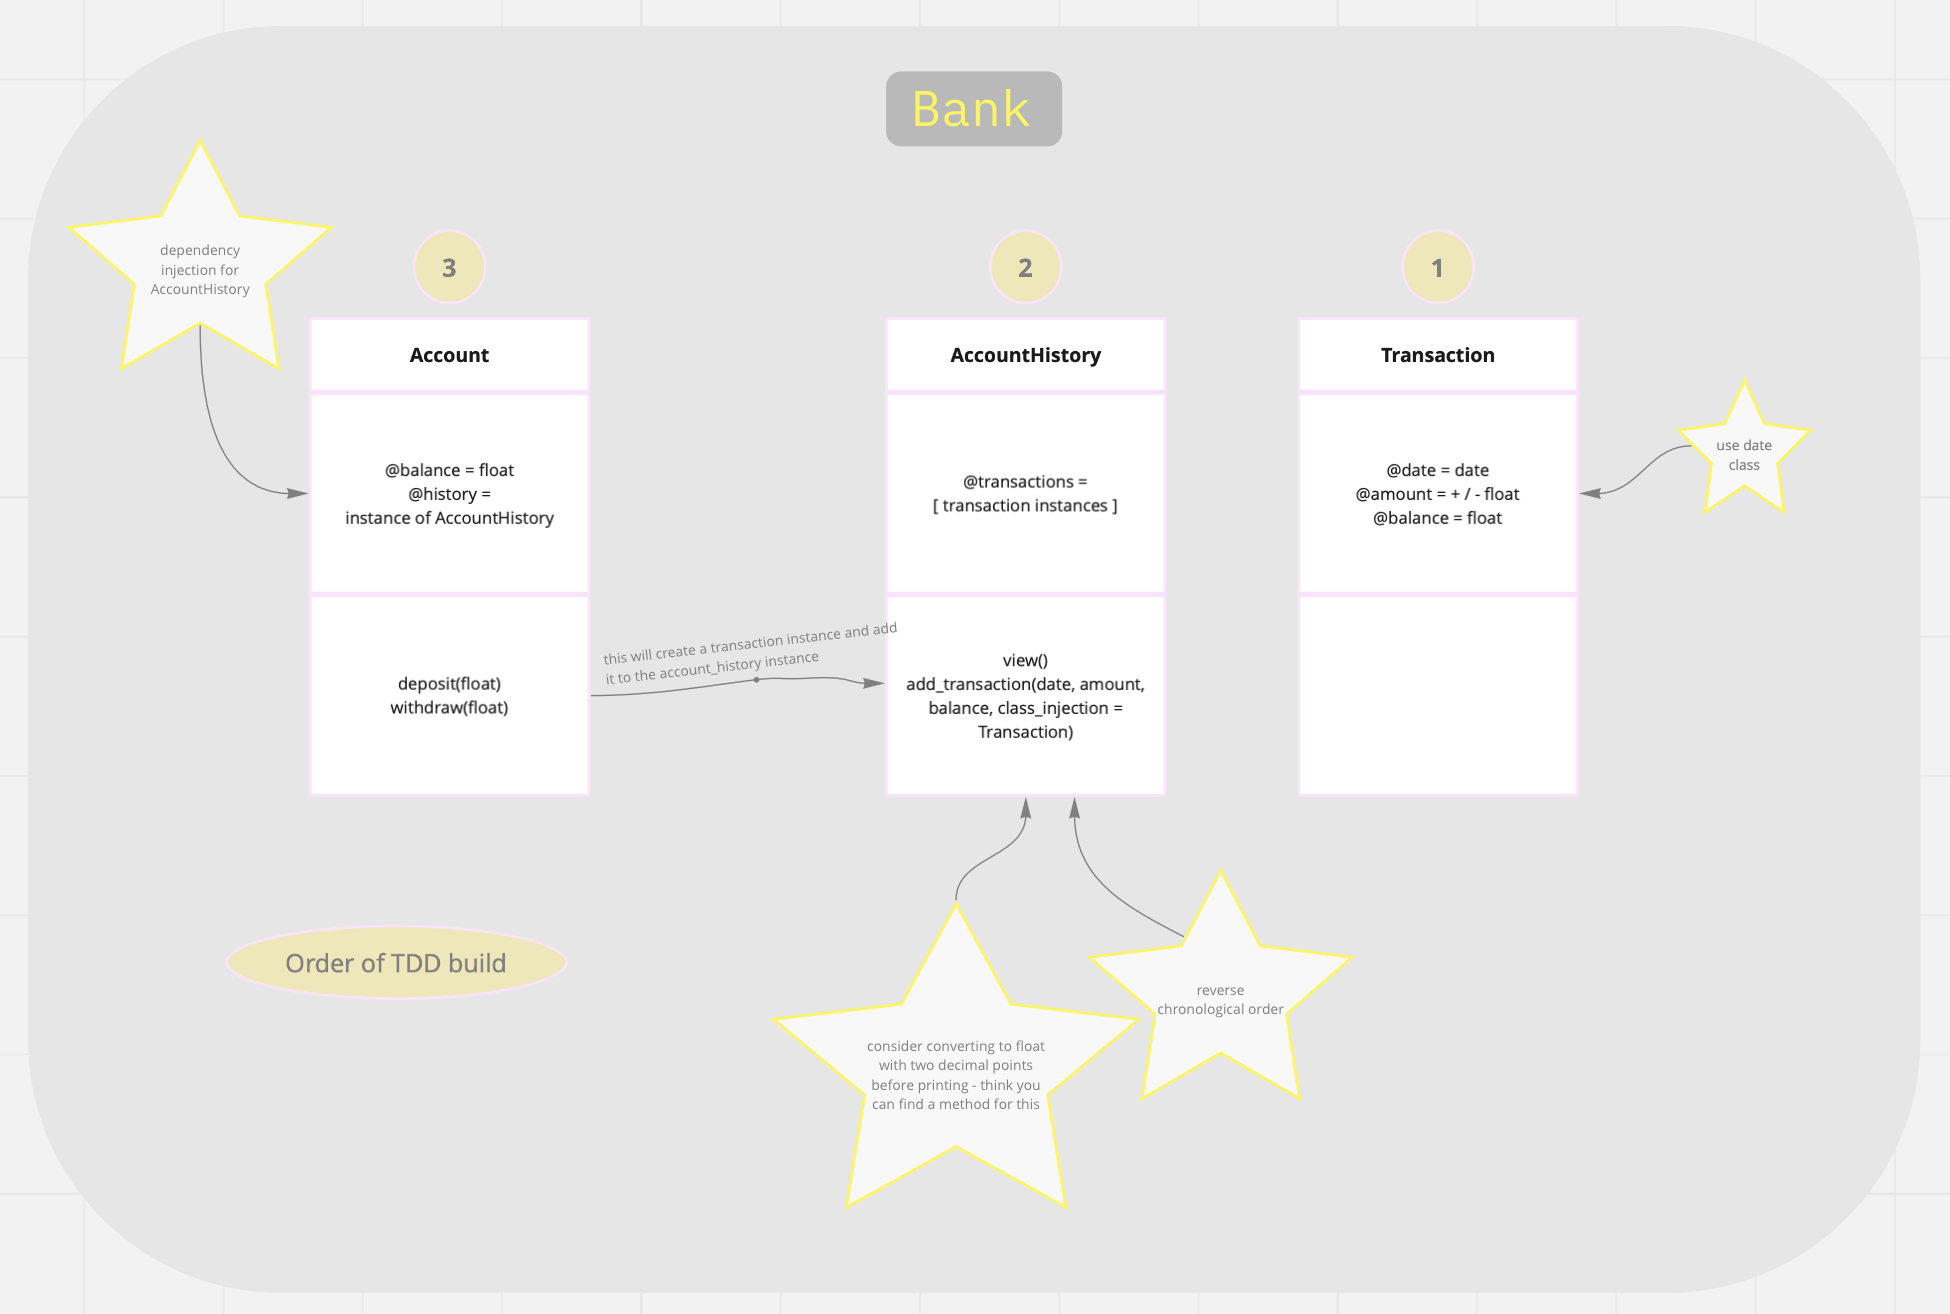
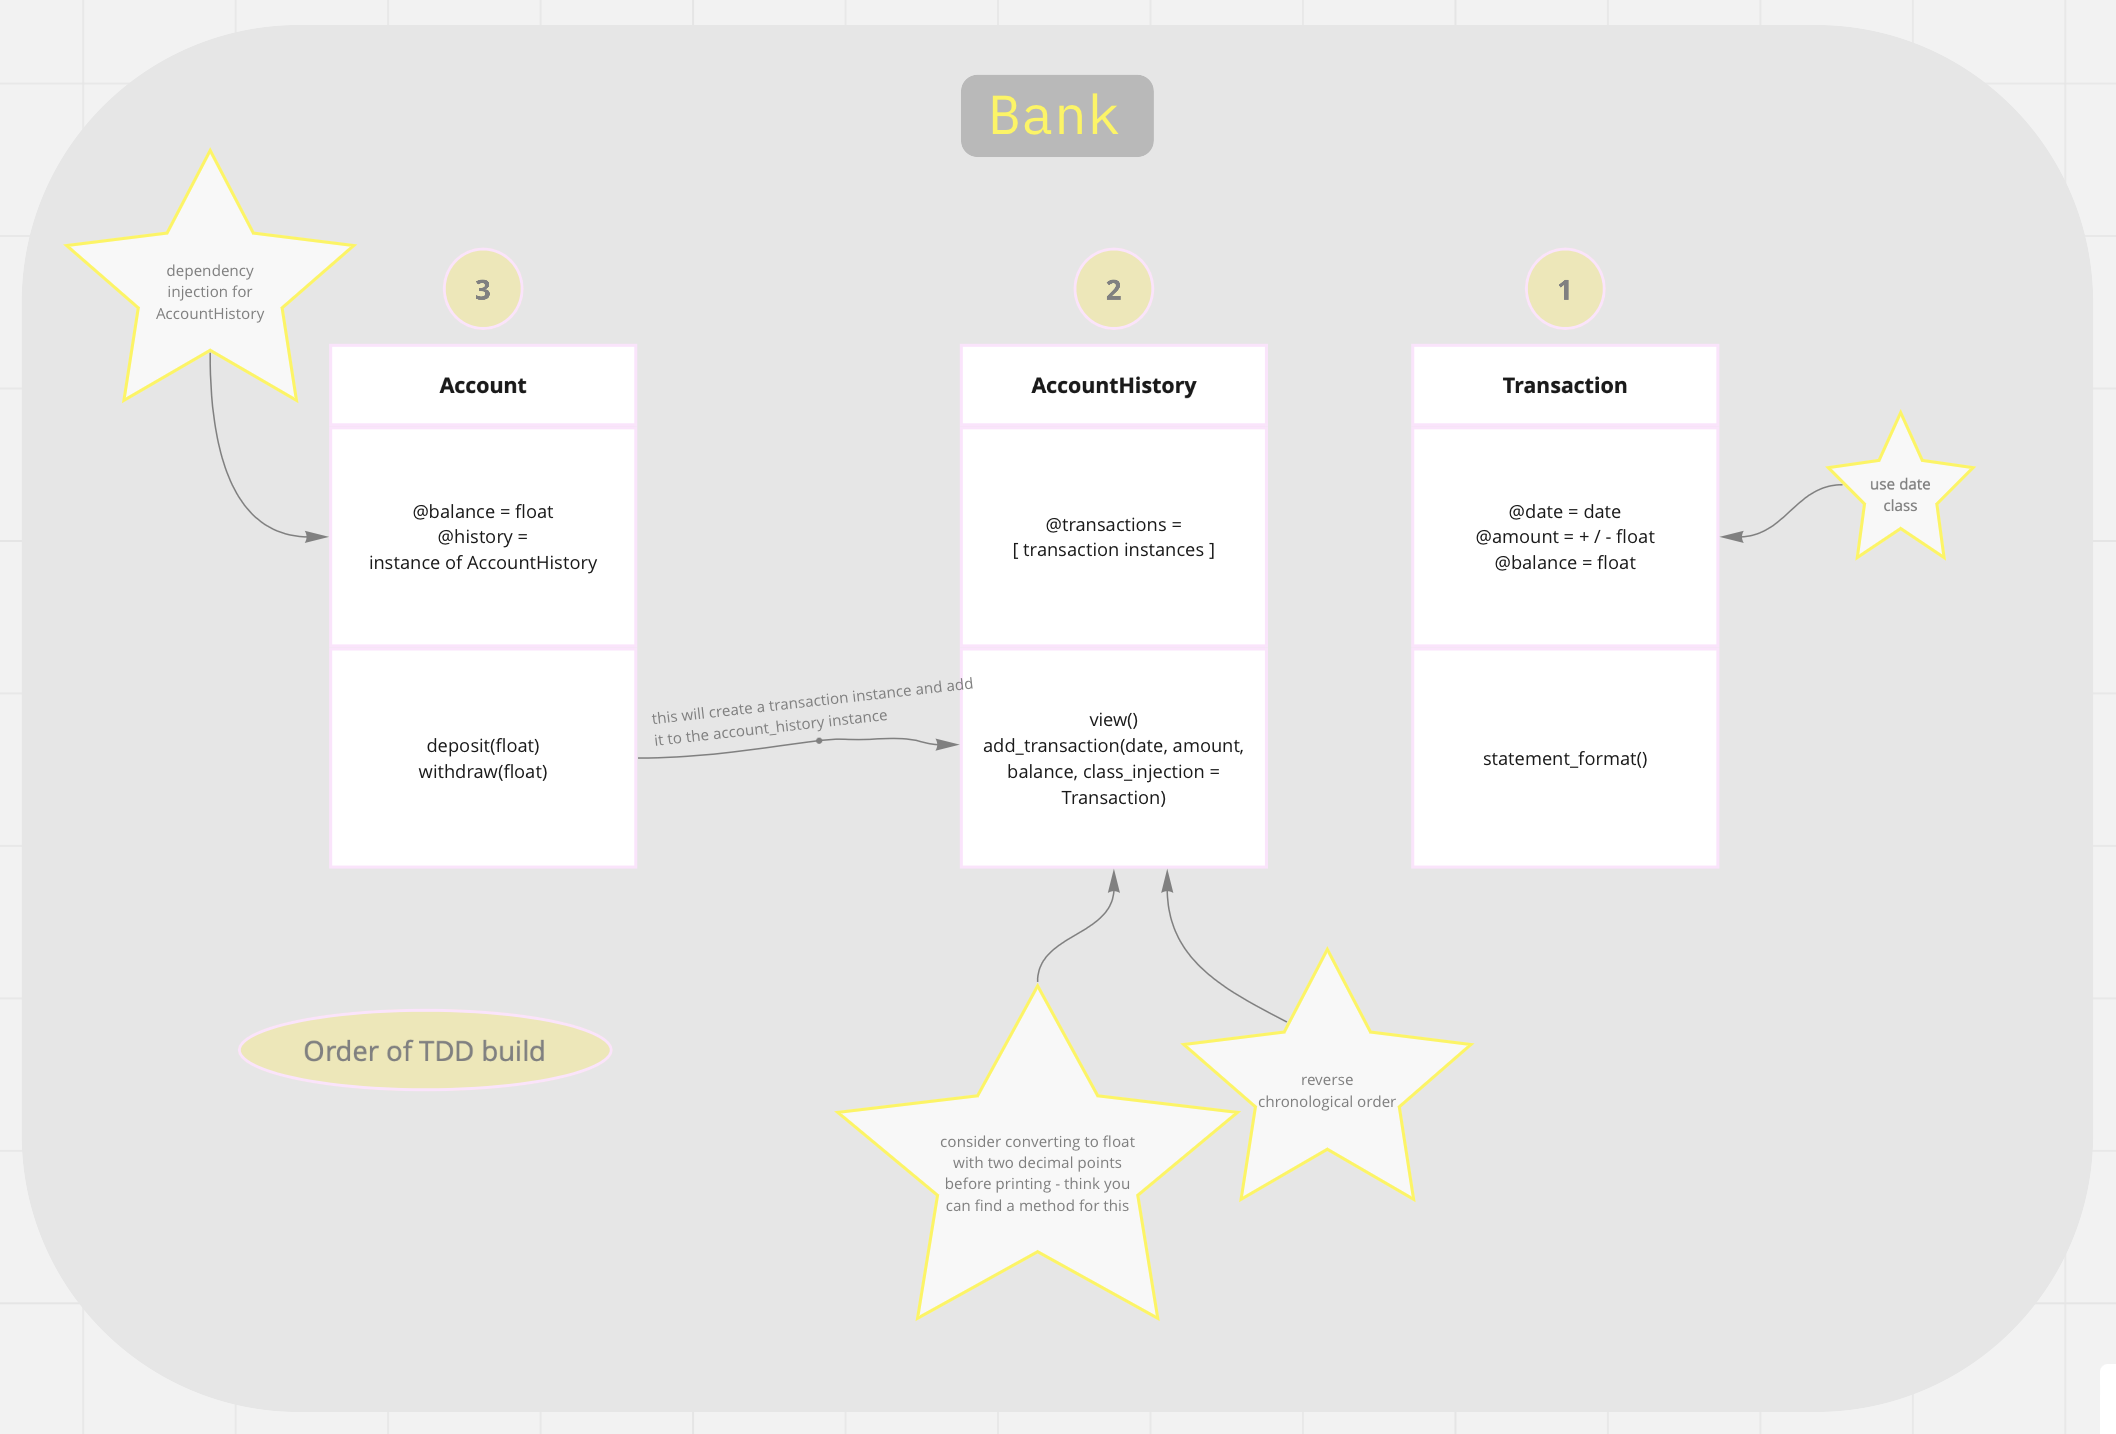
refactored formating of transaction into a string into the Transaction class

diff --git a/spec/account_history_spec.rb b/spec/account_history_spec.rb
@@ -17,30 +17,18 @@ describe AccountHistory do
   end
   
   describe '#view' do
-    let(:transaction1) { double(date: Date.parse('14/01/2023'), amount: 100.0, balance: 900.0) }
-    let(:transaction2) { double(date: Date.parse('18/01/2023'), amount: -250.0, balance: 650.0) }
+    let(:transaction1) { double(date: Date.parse('14/01/2023'), amount: 100.0, balance: 900.0, statement_format: 'transaction1 statement line') }
+    let(:transaction2) { double(date: Date.parse('18/01/2023'), amount: -250.0, balance: 650.0, statement_format: 'transaction2 statement line') }
 
     it 'returns the clients bank statement with date, credit, debit and balance headings' do
       expect { account_history.view }.to output(AccountHistory::STATEMENT_HEADINGS).to_stdout
-    end
-
-    it 'returns the clients transactions: credit transaction' do
-      account_history.transactions.push(transaction1)
-
-      expect { account_history.view }.to output("#{AccountHistory::STATEMENT_HEADINGS}14/01/2023 || 100.00 ||  || 900.00\n").to_stdout
-    end
-
-    it 'returns the clients transactions: debit transaction' do
-      account_history.transactions.push(transaction2)
-
-      expect { account_history.view }.to output("#{AccountHistory::STATEMENT_HEADINGS}18/01/2023 ||  || 250.00 || 650.00\n").to_stdout
     end
 
     it 'returns the clients transactions in reverse chronological order' do
       account_history.transactions.push(transaction1)
       account_history.transactions.push(transaction2)
 
-      expect { account_history.view }.to output("#{AccountHistory::STATEMENT_HEADINGS}18/01/2023 ||  || 250.00 || 650.00\n14/01/2023 || 100.00 ||  || 900.00\n").to_stdout
+      expect { account_history.view }.to output("#{AccountHistory::STATEMENT_HEADINGS}transaction2 statement line\ntransaction1 statement line\n").to_stdout
     end
   end
 

diff --git a/spec/transaction_spec.rb b/spec/transaction_spec.rb
@@ -1,9 +1,10 @@
 # frozen_string_literal: true
 
 require 'transaction'
+require 'date'
 
 describe Transaction do
-  let(:date) { double('Date instance') }
+  let(:date) { Date.parse('14/01/2023') }
   let(:transaction) { Transaction.new(date, 100.0, 900.0) }
   
   describe '#initialize(date, amount, balance)' do
@@ -12,7 +13,10 @@ describe Transaction do
     end
     
     it 'stores the transaction date' do
-      expect(transaction.date).to be(date)
+      expect(transaction.date).to be_an_instance_of(Date)
+      expect(transaction.date.year).to eq(2023)
+      expect(transaction.date.mon).to eq(1)
+      expect(transaction.date.mday).to eq(14)
     end
     
     it 'stores the transaction amount (positive float indicates credit, negative float indicates debit)' do
@@ -34,6 +38,18 @@ describe Transaction do
 
       it 'converts the transaction balance to a float if passed an integer' do
         expect(transaction_with_ints.balance).to be_an_instance_of(Float)
+      end
+    end
+
+    describe '#statement_format' do
+      it 'returns a credit transaction as a string to be added as a line on the bank statement' do  
+        expect(transaction.statement_format).to eq("14/01/2023 || 100.00 ||  || 900.00")
+      end
+  
+      it 'returns a debit transaction as a string to be added as a line on the bank statement' do
+        transaction2 = Transaction.new(date, -100.0, 700.0)
+        
+        expect(transaction2.statement_format).to eq("14/01/2023 ||  || 100.00 || 700.00")
       end
     end
   end

diff --git a/lib/account_history.rb b/lib/account_history.rb
@@ -4,7 +4,6 @@ require_relative 'transaction'
 class AccountHistory
   attr_reader :transactions
 
-  DEFAULT_DECIMAL_POINTS = 2
   STATEMENT_HEADINGS = "date || credit || debit || balance\n"
 
   def initialize
@@ -26,30 +25,6 @@ class AccountHistory
   end
 
   def array_of_statement_rows
-    @transactions.map do |transaction|
-      "#{date(transaction)} || #{credit(transaction)} || #{debit(transaction)} || #{balance(transaction)}"
-    end
-  end
-
-  def date(transaction)
-    date = transaction.date.strftime('%d/%m/%Y')
-  end
-
-  def credit(transaction)
-    return unless transaction.amount.positive?
-    format_currency(transaction.amount)
-  end
-
-  def debit(transaction)
-    return unless transaction.amount.negative?
-    format_currency(transaction.amount * -1)
-  end
-
-  def balance(transaction)
-    format_currency(transaction.balance)
-  end
-
-  def format_currency(float)
-    format("%.#{DEFAULT_DECIMAL_POINTS}f", float)
+    @transactions.map { |transaction| transaction.statement_format }
   end
 end

diff --git a/lib/transaction.rb b/lib/transaction.rb
@@ -4,9 +4,39 @@ require 'date'
 class Transaction
   attr_reader :date, :amount, :balance
 
+  DEFAULT_DECIMAL_POINTS = 2
+
   def initialize(date, amount, balance)
     @date = date
     @amount = amount.to_f
     @balance = balance.to_f
+  end
+
+  def statement_format
+    "#{format_date(self)} || #{format_credit(self)} || #{format_debit(self)} || #{format_balance(self)}"
+  end
+
+  private
+
+  def format_date(transaction)
+    date = transaction.date.strftime('%d/%m/%Y')
+  end
+
+  def format_credit(transaction)
+    return unless transaction.amount.positive?
+    format_currency(transaction.amount)
+  end
+
+  def format_debit(transaction)
+    return unless transaction.amount.negative?
+    format_currency(transaction.amount * -1)
+  end
+
+  def format_balance(transaction)
+    format_currency(transaction.balance)
+  end
+
+  def format_currency(float)
+    format("%.#{DEFAULT_DECIMAL_POINTS}f", float)
   end
 end

diff --git a/README.md b/README.md
@@ -154,6 +154,7 @@ AccountHistory
 Transaction
 - responsible for storing individual transactions
   - stores an individual transaction's date, amount and balance post transaction
+  - converts a transaction into a string to be added as a line on the bank statement
 
 I structured my classes in this way to separate live interactions (Account) from the storage of historical data (AccountHistory & Transaction).
 I used a transaction class, rather than a hash for each transaction, as I thought it would be best to have each transaction easily available for methods if this was required in the future.
